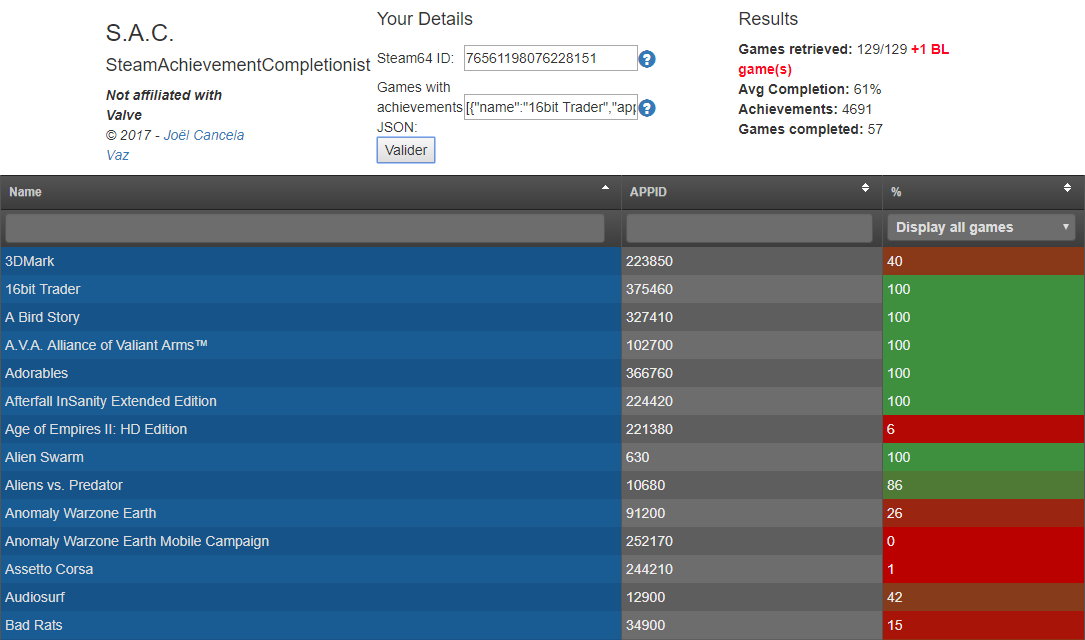
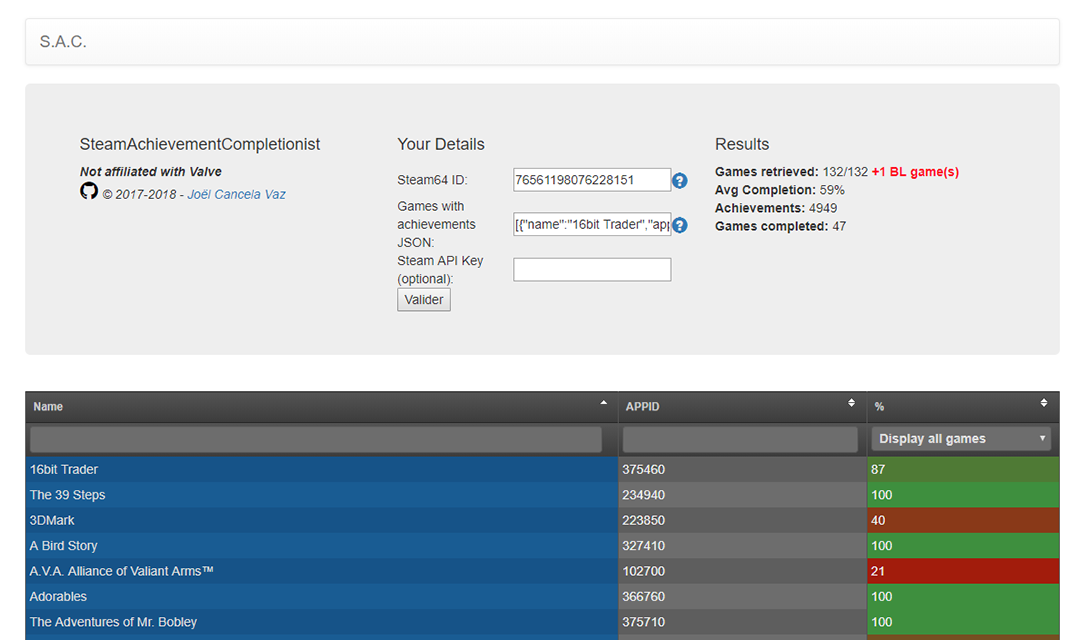
Enhanced UI, updated preview

diff --git a/index.html b/index.html
@@ -13,71 +13,90 @@
 	<link href="ico/favicon.png" rel="shortcut icon">
 </head>
 <body>
-<div class="container-fluid">
-	<div class="row">
-		<div class="col-md-2 col-md-offset-1">
-			<h3>S.A.C.</h3>
-			<h4>SteamAchievementCompletionist</h4>
-			<strong><i>Not affiliated with Valve</i></strong><br>
-			<span><a class="github" href="https://github.com/joelcancela/SteamAchievementCompletionist/"
-			         onclick=" window.open(this.href);return false">
+<div class="container">
+	<!-- Static navbar -->
+	<nav class="navbar navbar-default">
+		<div class="container-fluid">
+			<div class="navbar-header">
+				<button type="button" class="navbar-toggle collapsed" data-toggle="collapse" data-target="#navbar"
+				        aria-expanded="false" aria-controls="navbar">
+					<span class="sr-only">Toggle navigation</span>
+					<span class="icon-bar"></span>
+					<span class="icon-bar"></span>
+					<span class="icon-bar"></span>
+				</button>
+				<a class="navbar-brand" href="#">S.A.C.</a>
+			</div>
+		</div><!--/.container-fluid -->
+	</nav>
+	<!-- Main component for a primary marketing message or call to action -->
+	<div class="jumbotron">
+		<div class="row">
+			<div class="col-md-4">
+				<h4>SteamAchievementCompletionist</h4>
+				<strong><i>Not affiliated with Valve</i></strong><br>
+				<span><a class="github" href="https://github.com/joelcancela/SteamAchievementCompletionist/"
+				         onclick=" window.open(this.href);return false">
 							<i class="devicon-github-plain"></i></a> <i>© 2017-2018 - <a
-					href="mailto:joel.cancelavaz@gmail.com">Joël Cancela Vaz</a></i></span>
+						href="mailto:joel.cancelavaz@gmail.com">Joël Cancela Vaz</a></i></span>
+			</div>
+			<div class="col-md-4">
+				<h4>Your Details</h4>
+				<form id="userInfo">
+					<table id="inputs">
+						<tr>
+							<td>Steam64 ID:</td>
+							<td><label for="steamid"></label><input type="text" id="steamid" required/></td>
+							<td><a href="#" data-toggle="modal" data-target="#steamIDModal"><h4
+									class="glyphicon glyphicon glyphicon-question-sign"></h4></a></td>
+						</tr>
+						<tr>
+							<td>Games with achievements JSON:</td>
+							<td><label for="gamesJSON"></label><input type="text" id="gamesJSON" required/></td>
+							<td><a href="#" data-toggle="modal" data-target="#gamesJSONModal"><h4
+									class="glyphicon glyphicon glyphicon glyphicon-question-sign"></h4></a></td>
+						</tr>
+						<tr>
+							<td>Steam API Key (optional):</td>
+							<td><label for="apiKey"></label><input type="text" id="apiKey"/></td>
+						</tr>
+					</table>
+					<input type="Submit" name="submit_button"/>
+				</form>
+			</div>
+			<div class="col-md-4">
+				<h4>Results</h4>
+				<strong>Games retrieved: </strong><span id="number_games_retrieved">0</span><span
+					id="number_games">/0</span>
+				<strong id="blacklisted_games_span" class="blacklisted" style="display: none;">+<span
+						id="blacklisted_games_retrieved">0</span> BL
+					game(s)</strong><br>
+				<strong>Avg Completion: </strong><span id="average_completion">0</span><span>%</span><br>
+				<strong>Achievements: </strong><span id="achievements_number">0</span><br>
+				<strong>Games completed: </strong><span id="games_completed">0</span>
+			</div>
 		</div>
-		<div class="col-md-3 col-md-offset-1">
-			<h4>Your Details</h4>
-			<form id="userInfo">
-				<table id="inputs">
+	</div>
+	<div class="container-fluid">
+		<div class="row">
+			<div id="results" class="hidden">
+				<table id="achievements_table" class="tablesorter" cellspacing="0" width="100%">
+					<thead>
 					<tr>
-						<td>Steam64 ID:</td>
-						<td><label for="steamid"></label><input type="text" id="steamid" required/></td>
-						<td><a href="#" data-toggle="modal" data-target="#steamIDModal"><h4
-								class="glyphicon glyphicon glyphicon-question-sign"></h4></a></td>
+						<th>Name</th>
+						<th>APPID</th>
+						<th data-placeholder="Display all games">%</th>
 					</tr>
-					<tr>
-						<td>Games with achievements JSON:</td>
-						<td><label for="gamesJSON"></label><input type="text" id="gamesJSON" required/></td>
-						<td><a href="#" data-toggle="modal" data-target="#gamesJSONModal"><h4
-								class="glyphicon glyphicon glyphicon glyphicon-question-sign"></h4></a></td>
-					</tr>
-					<tr>
-						<td>Steam API Key (optional):</td>
-						<td><label for="apiKey"></label><input type="text" id="apiKey"/></td>
-					</tr>
+					</thead>
+					<tbody id="games_table">
+					</tbody>
+					<tfoot>
+					</tfoot>
 				</table>
-				<input type="Submit" name="submit_button"/>
-			</form>
-		</div>
-		<div class="col-md-3 col-md-offset-1">
-			<h4>Results</h4>
-			<strong>Games retrieved: </strong><span id="number_games_retrieved">0</span><span
-				id="number_games">/0</span>
-			<strong id="blacklisted_games_span" class="blacklisted" style="display: none;">+<span
-					id="blacklisted_games_retrieved">0</span> BL
-				game(s)</strong><br>
-			<strong>Avg Completion: </strong><span id="average_completion">0</span><span>%</span><br>
-			<strong>Achievements: </strong><span id="achievements_number">0</span><br>
-			<strong>Games completed: </strong><span id="games_completed">0</span>
+			</div>
 		</div>
 	</div>
-	<div class="row">
-		<div id="results" class="hidden">
-			<table id="achievements_table" class="tablesorter" cellspacing="0" width="100%">
-				<thead>
-				<tr>
-					<th>Name</th>
-					<th>APPID</th>
-					<th data-placeholder="Display all games">%</th>
-				</tr>
-				</thead>
-				<tbody id="games_table">
-				</tbody>
-				<tfoot>
-				</tfoot>
-			</table>
-		</div>
-	</div>
-</div>
+</div> <!-- /container -->
 <!-- Modals -->
 <!-- Modal Welcome -->
 <div class="modal fade" id="welcomeModal" tabindex="-1" role="dialog" data-backdrop="static"

diff --git a/css/style.css b/css/style.css
@@ -8,6 +8,11 @@
     color: #fe081e;
 }
 
+body {
+    padding-top: 20px;
+    padding-bottom: 20px;
+}
+
 .devicon-github-plain {
     font-size: 1.5em;
 }
